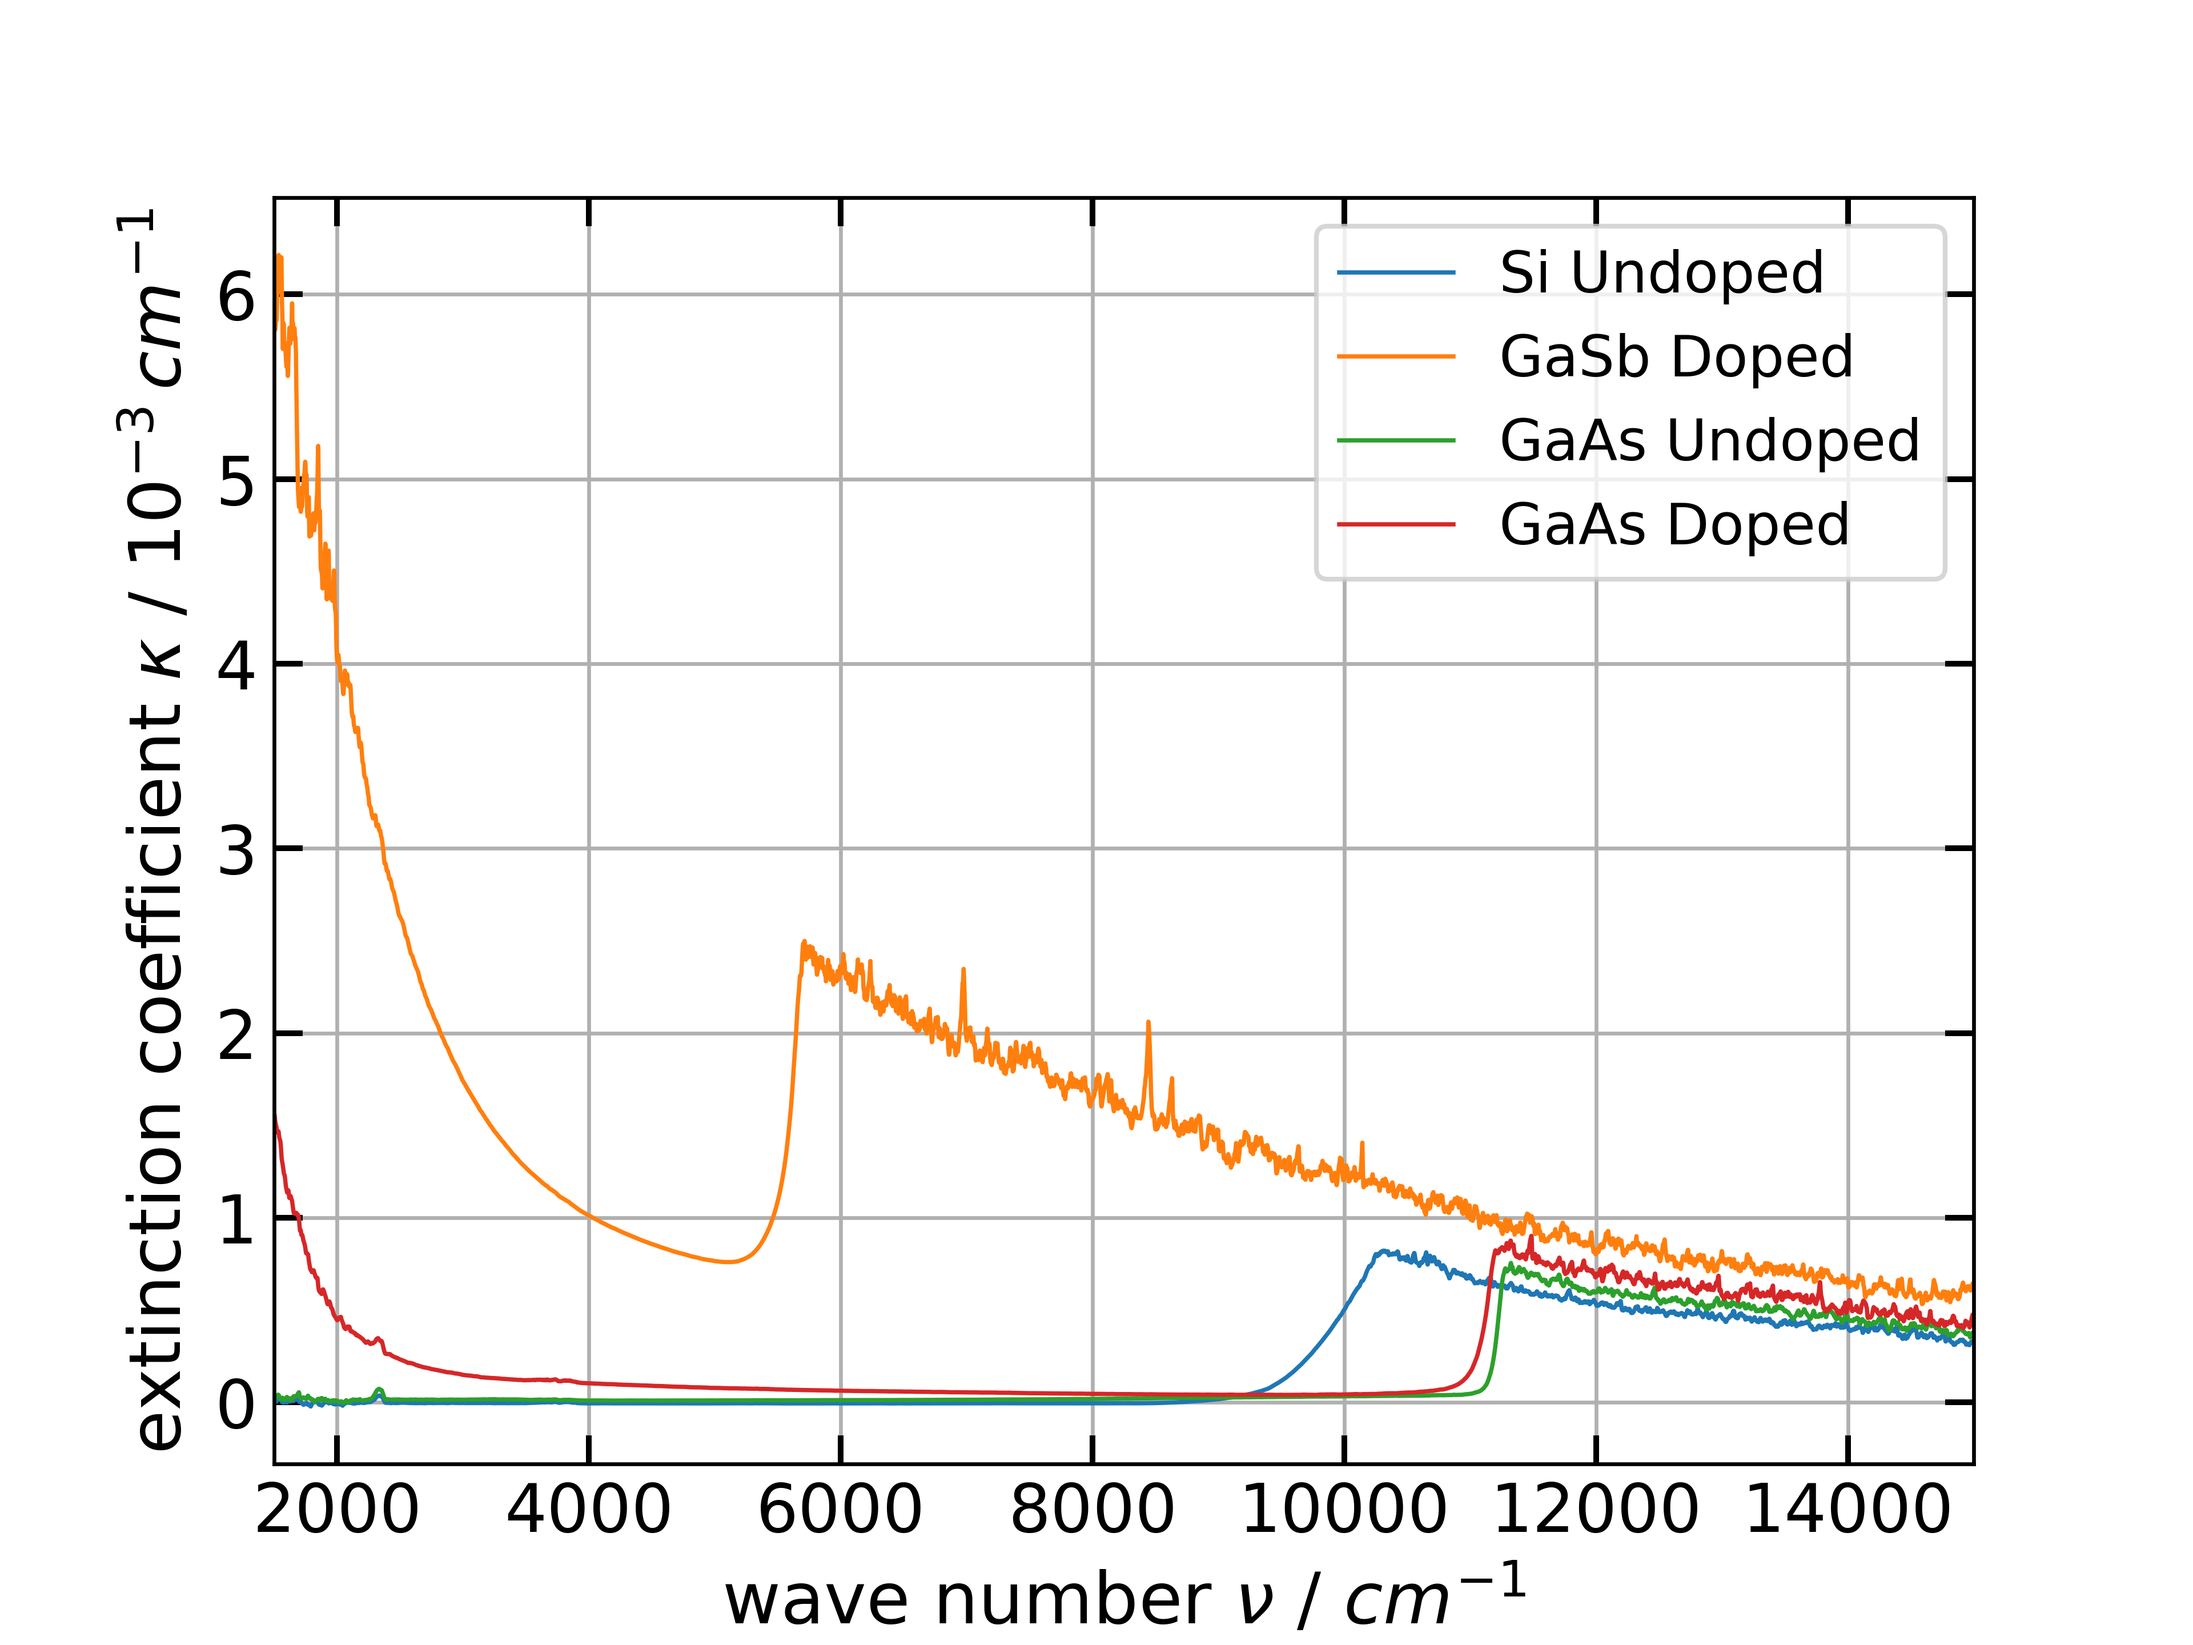
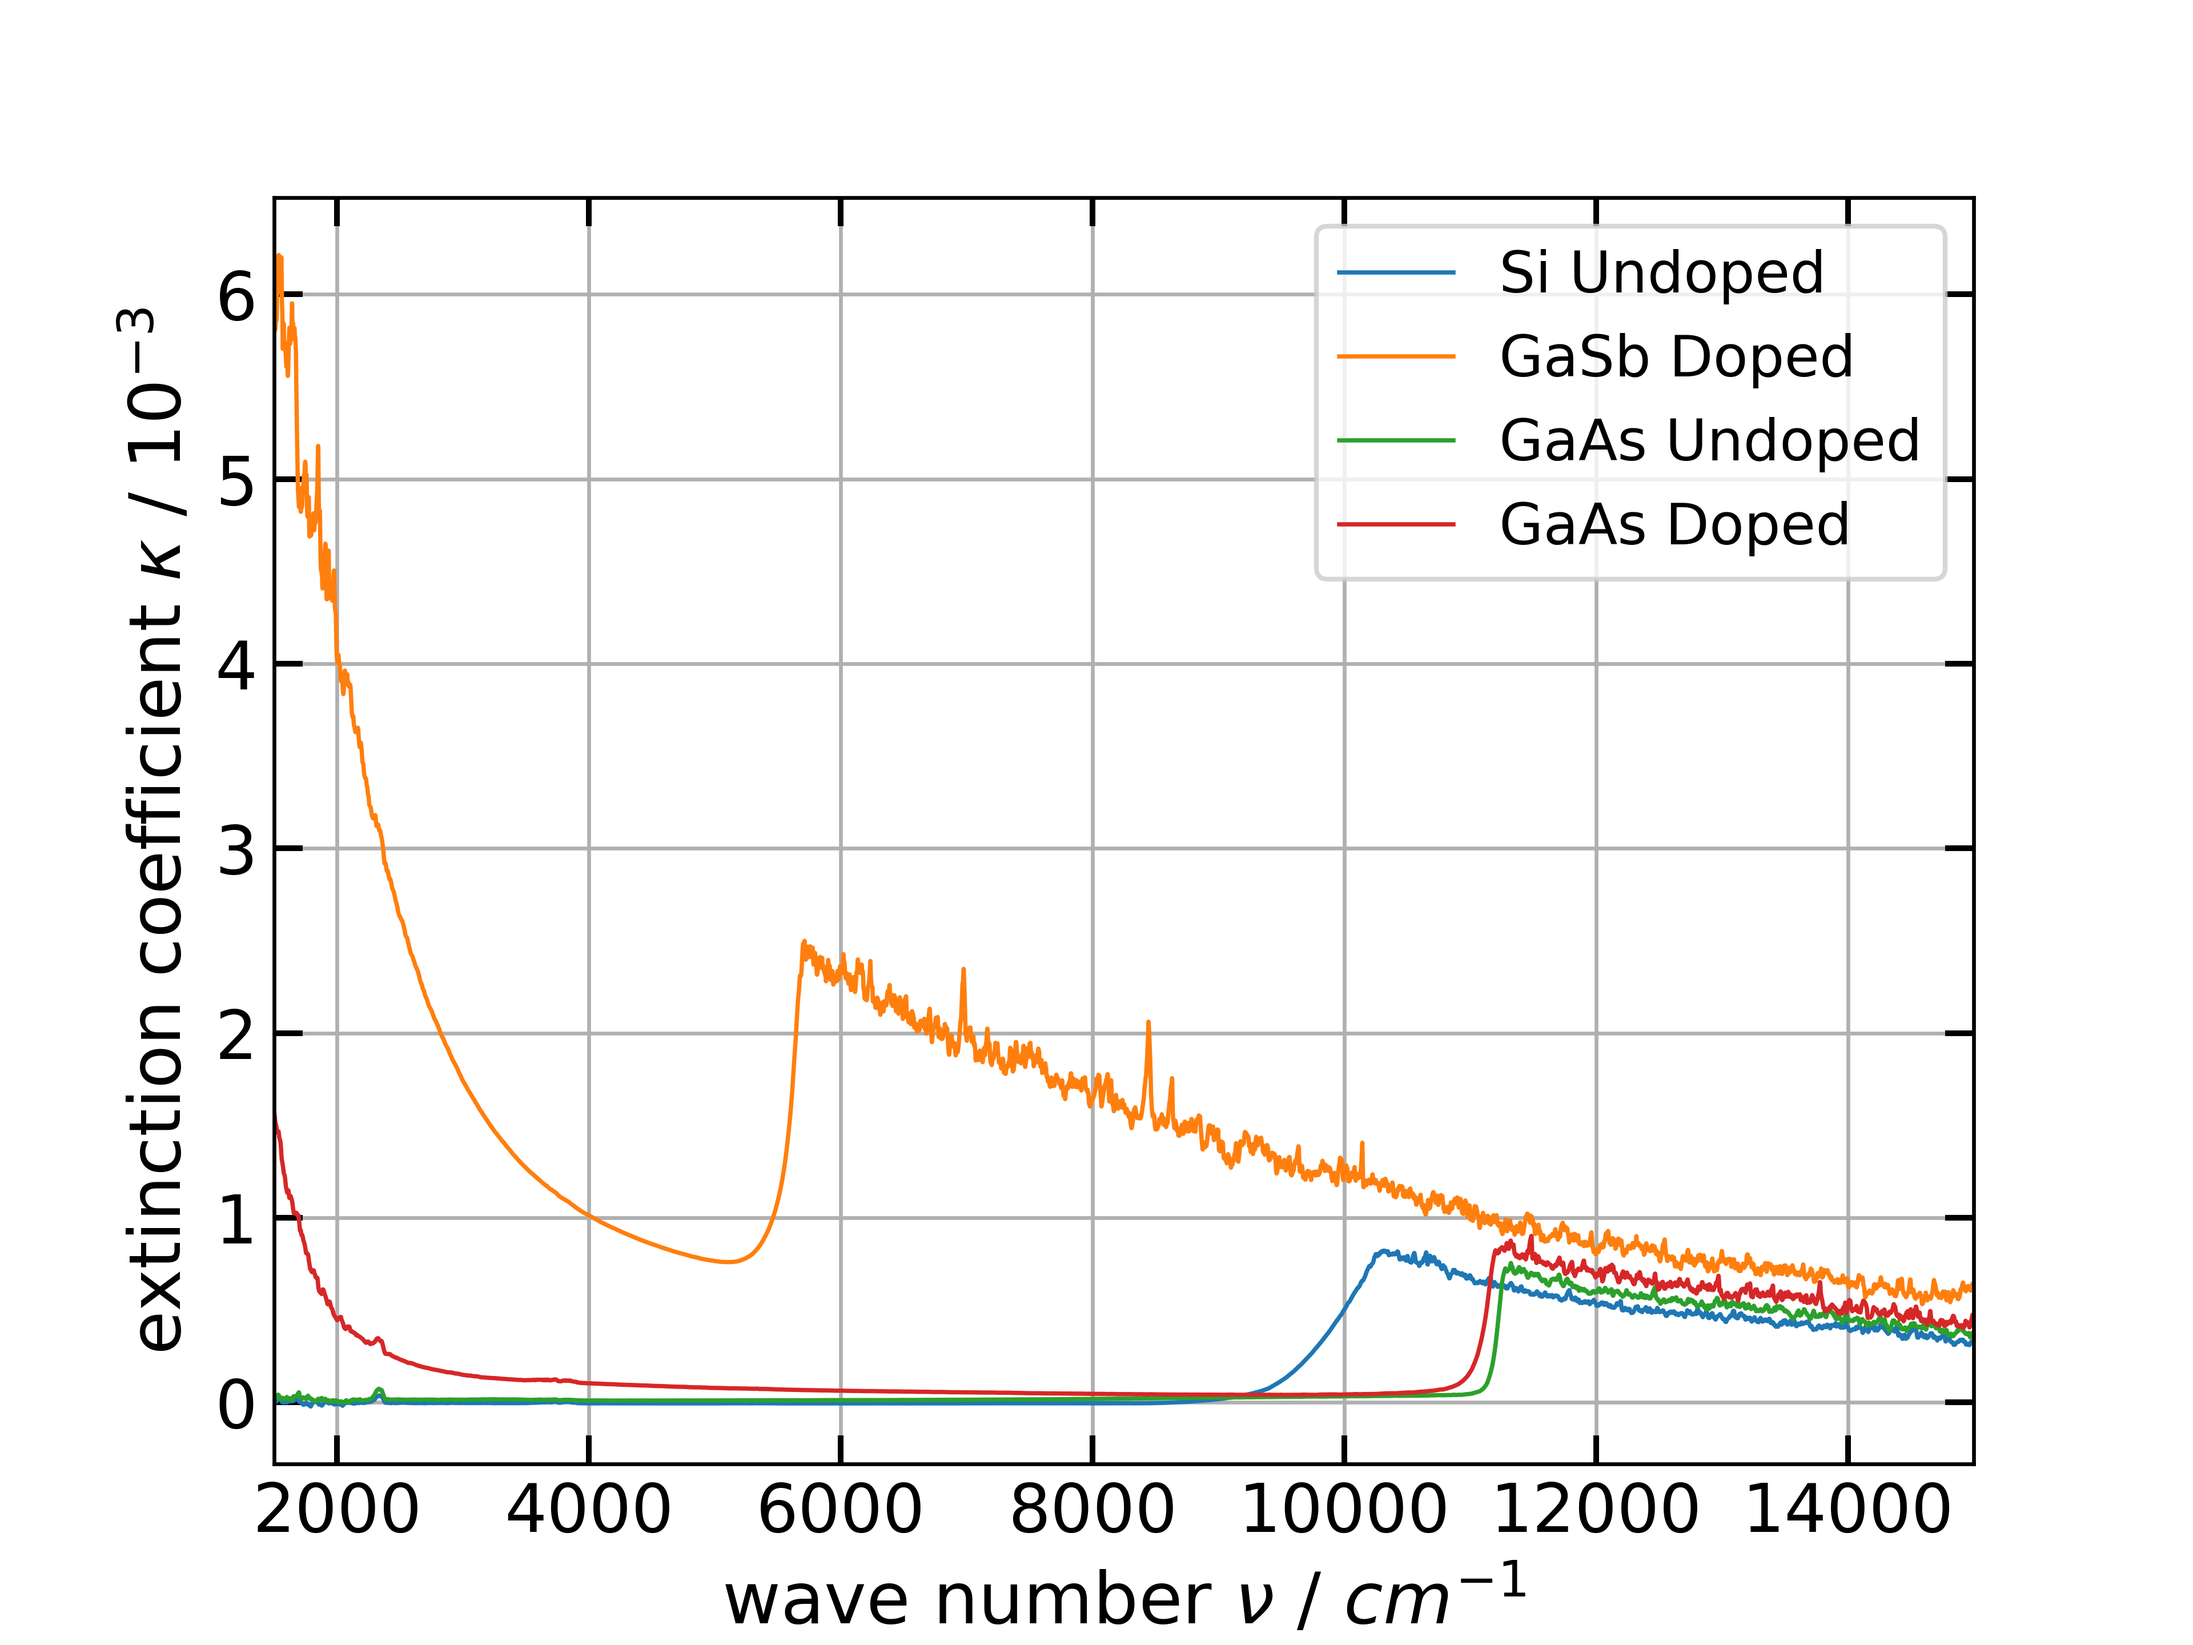
Riesige und fundamentale Änderungen

Changed region(s): [[0.0625, 0.1562, 0.0938, 0.875]]

diff --git a/SolidStateOptics/exp4.py b/SolidStateOptics/exp4.py
@@ -165,7 +165,7 @@ def plot_the_kappas(title="foo", glättwert = 1):
         plot_data(bügeln(kappa, 0.05), label=label)
 
     plt.xlabel(r'wave number $\nu$ / ' + r'$cm^{-1}$')
-    plt.ylabel(r'extinction coefficient $\kappa$ / ' + r'$ 10^{-3}\, cm^{-1}$')
+    plt.ylabel(r'extinction coefficient $\kappa$ / ' + r'$ 10^{-3}$')
     plt.legend(fontsize=12)
     save_and_open(filename=title)
      
@@ -489,7 +489,7 @@ def plot_epxilon_stich(windowsize=200):
 #                              glättwert=0.01, title="Si_Undoped")
 
 
-#plot_the_kappas(glättwert=0.9, title="kappa")
+plot_the_kappas(glättwert=0.9, title="kappa")
 
 #plot_the_betas(title="betas", glättwert=0.9)
 
